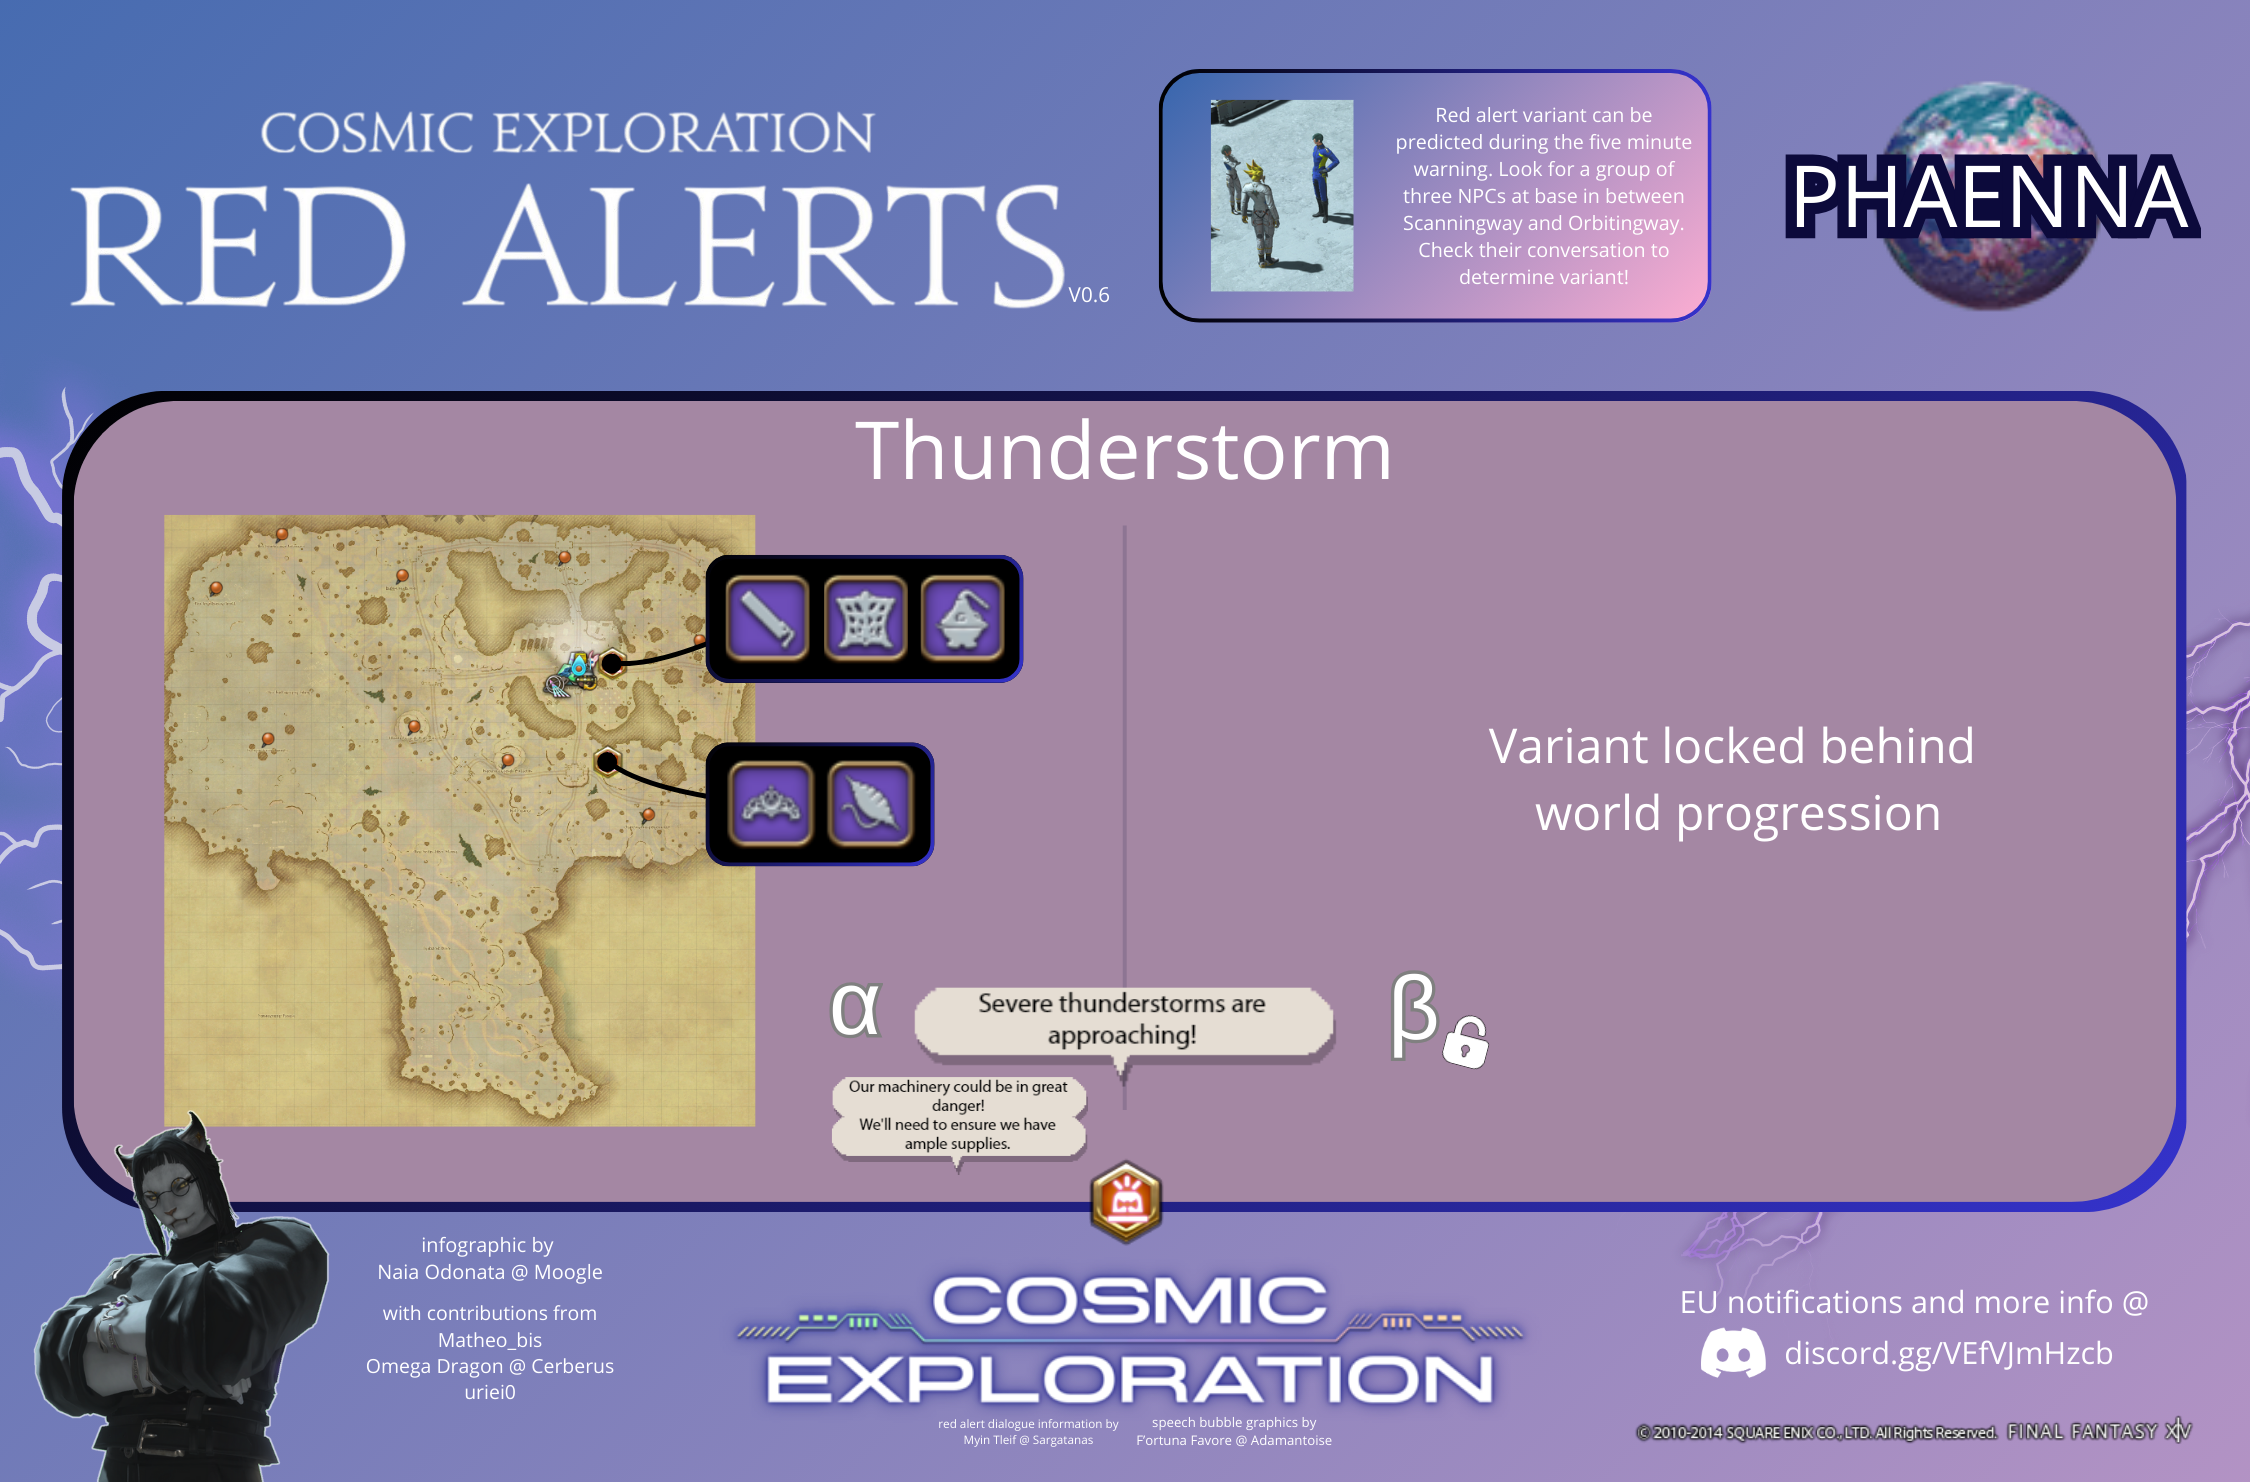
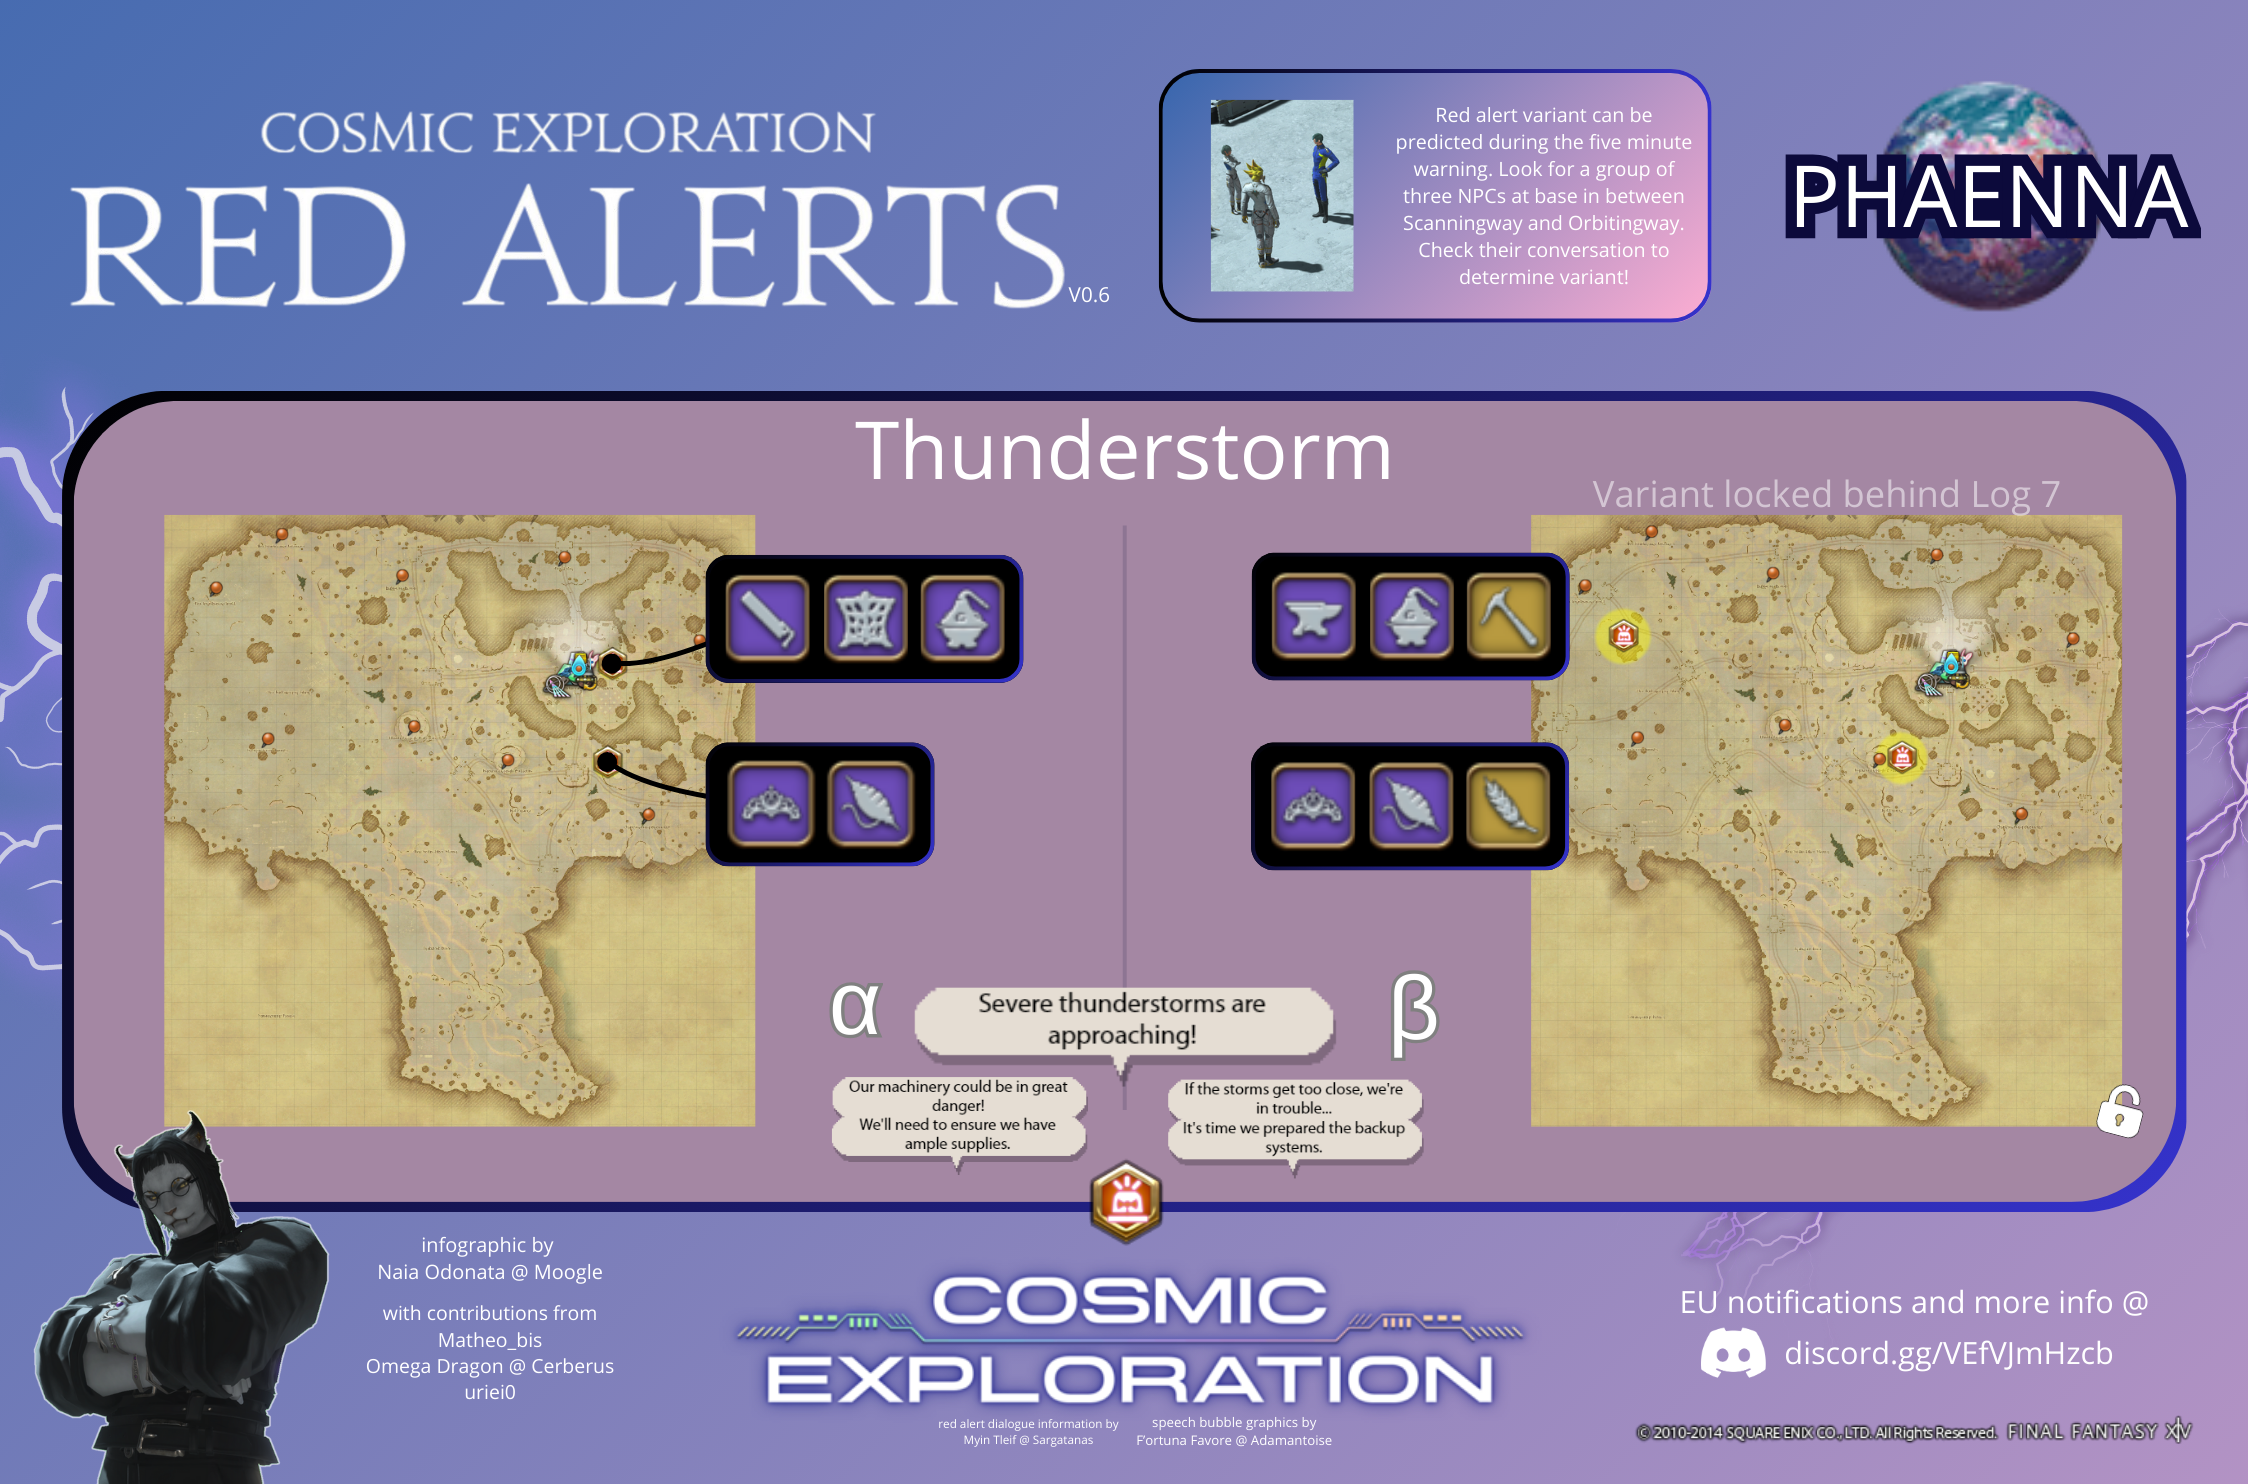
Add Phaenna Thunderstorms B

diff --git a/src/constants/red-alerts.constants.ts b/src/constants/red-alerts.constants.ts
@@ -189,6 +189,29 @@ export const RED_ALERT_PHAENNA: Array<IRedAlertType> = [
           ja: ["激しい雷雨が\n予測されます！", "機器への影響が\n心配だ…！", "対策用品を点検せねば"],
         },
       },
+      {
+        name: "Variant B",
+        classes: ["GSM", "WVR", "BTN", "BSM", "ALC", "MIN"],
+        image: path.resolve("./assets/red-alerts/phaenna/ra-thunderstorms-b.png"),
+        hints: {
+          "en-US": [
+            "Severe thunderstorms are approaching!",
+            "If the storms get too close, we're in trouble...",
+            "It's time we prepared the backup systems.",
+          ],
+          fr: [
+            "Un violent orage est annoncé !",
+            "Si ça arrive jusqu'ici, on est mal...",
+            "Il va falloir mettre en route notre fameux système !",
+          ],
+          de: [
+            "Ein heftiges Unwetter ist vorhergesagt!",
+            "Wenn das zu nah kommt ... könnte das übel ausgehen.",
+            "Ich muss das eine System noch vorbereiten.",
+          ],
+          ja: ["激しい雷雨が\n予測されます！", "近くに来るならば…\nマズいかもしれないな", "例のシステムの\n準備をしておこう"],
+        },
+      },
     ],
   },
   {

diff --git a/src/modules/discord/commands/red-alert.ts b/src/modules/discord/commands/red-alert.ts
@@ -185,7 +185,7 @@ export default {
           await interaction.editReply({ components: components }).catch(() => Log.error("ERROR: Red Alert-RemoveFalseAlarmButton"));
         }, falseAlarmTimeout * 60 * 1000);
 
-        if (!chosenVariant && redAlertType.variants?.length > 1) {
+        if (!chosenVariant && hasMultipleVariantData(redAlertType)) {
           const interactionReplyVariants = await interaction
             .followUp({
               content: "Please pick a variant, if you know it...",
@@ -374,4 +374,8 @@ function getHintsLangsButtonRow(redAlertType: IRedAlertType): ActionRowBuilder<B
     firstRow.addComponents(new ButtonBuilder().setCustomId(`hintLang-${lang}`).setLabel(`${LANGS[lang]}`).setStyle(ButtonStyle.Primary));
   }
   return [firstRow];
+}
+
+function hasMultipleVariantData(redAlertType: IRedAlertType): boolean {
+  return redAlertType.variants?.filter((v) => fsExistsSync(v.image)).length > 1 || false;
 }
